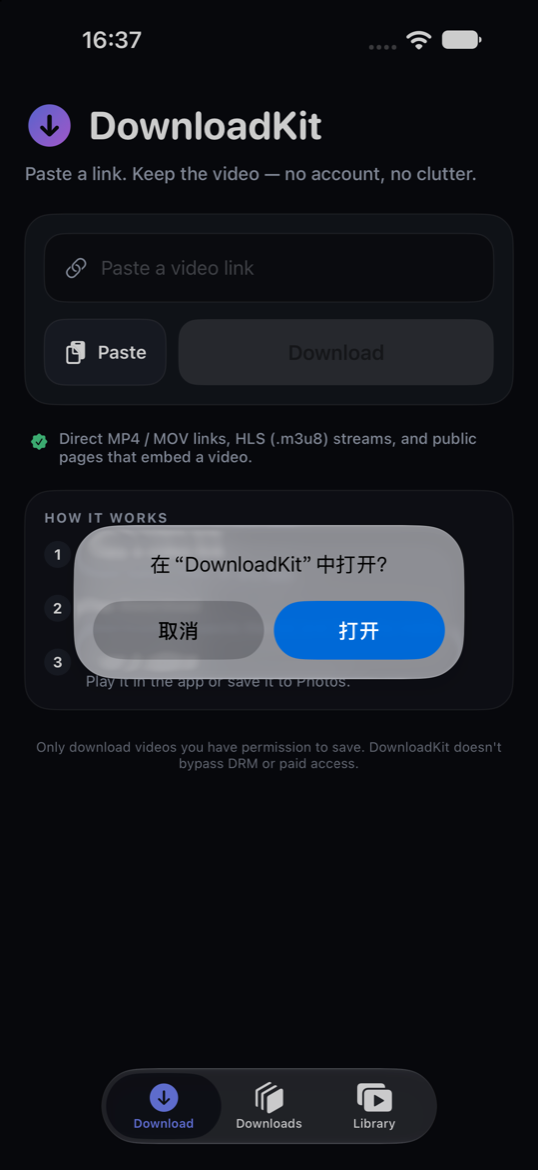
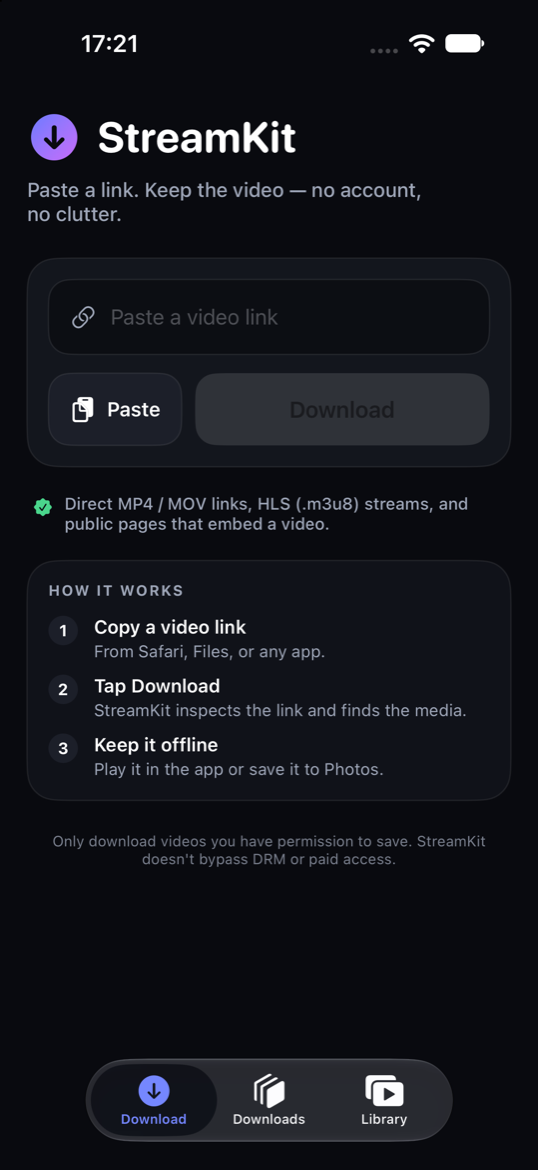
Rename project from DownloadKit to StreamKit
- Targets/schemes: StreamKit, StreamKitShare, StreamKitTests
- Bundle ids: com.streamkit.app / com.streamkit.app.share
- App Group: group.com.streamkit.app, background session com.streamkit.app.background
- URL scheme: streamkit://, on-disk folder Application Support/StreamKit
- Refreshed docs screenshots

diff --git a/ShareExtension/ShareViewController.swift b/ShareExtension/ShareViewController.swift
@@ -62,13 +62,13 @@ final class ShareViewController: UIViewController {
         titleLabel.numberOfLines = 2
         titleLabel.translatesAutoresizingMaskIntoConstraints = false
 
-        detailLabel.text = "DownloadKit will start the download when you open the app."
+        detailLabel.text = "StreamKit will start the download when you open the app."
         detailLabel.font = .systemFont(ofSize: 13.5, weight: .regular)
         detailLabel.textColor = UIColor(white: 0.68, alpha: 1)
         detailLabel.numberOfLines = 3
         detailLabel.translatesAutoresizingMaskIntoConstraints = false
 
-        openButton.setTitle("Open DownloadKit", for: .normal)
+        openButton.setTitle("Open StreamKit", for: .normal)
         openButton.titleLabel?.font = .systemFont(ofSize: 16, weight: .semibold)
         openButton.setTitleColor(.black, for: .normal)
         openButton.backgroundColor = accent
@@ -127,7 +127,7 @@ final class ShareViewController: UIViewController {
         spinner.stopAnimating()
         titleLabel.text = "Link saved"
         let host = URL(string: link)?.host?.replacingOccurrences(of: "www.", with: "") ?? link
-        detailLabel.text = "\(host)\nOpen DownloadKit to start the download."
+        detailLabel.text = "\(host)\nOpen StreamKit to start the download."
         openButton.isHidden = false
         doneButton.isHidden = false
         UIImpactFeedbackGenerator(style: .light).impactOccurred()
@@ -136,18 +136,18 @@ final class ShareViewController: UIViewController {
     private func showFailure() {
         spinner.stopAnimating()
         titleLabel.text = "No link found"
-        detailLabel.text = "Share a video link, or paste it directly in DownloadKit."
+        detailLabel.text = "Share a video link, or paste it directly in StreamKit."
         doneButton.isHidden = false
     }
 
     // MARK: - Actions
 
     @objc private func openApp() {
-        guard let url = URL(string: "downloadkit://") else { return }
+        guard let url = URL(string: "streamkit://") else { return }
         extensionContext?.open(url) { [weak self] opened in
             DispatchQueue.main.async {
                 if !opened {
-                    self?.detailLabel.text = "Link saved. Open DownloadKit from your Home Screen to start the download."
+                    self?.detailLabel.text = "Link saved. Open StreamKit from your Home Screen to start the download."
                     self?.openButton.isHidden = true
                 } else {
                     self?.extensionContext?.completeRequest(returningItems: nil)

diff --git a/Sources/Views/HomeView.swift b/Sources/Views/HomeView.swift
@@ -65,7 +65,7 @@ struct HomeView: View {
                 Image(systemName: "arrow.down.circle.fill")
                     .font(.system(size: 34, weight: .semibold))
                     .foregroundStyle(Theme.brandGradient)
-                Text("DownloadKit")
+                Text("StreamKit")
                     .font(.system(size: 32, weight: .bold, design: .rounded))
                     .foregroundStyle(Theme.textPrimary)
             }
@@ -225,7 +225,7 @@ struct HomeView: View {
 
             VStack(spacing: 10) {
                 step(number: "1", title: "Copy a video link", detail: "From Safari, Files, or any app.")
-                step(number: "2", title: "Tap Download", detail: "DownloadKit inspects the link and finds the media.")
+                step(number: "2", title: "Tap Download", detail: "StreamKit inspects the link and finds the media.")
                 step(number: "3", title: "Keep it offline", detail: "Play it in the app or save it to Photos.")
             }
         }
@@ -242,7 +242,7 @@ struct HomeView: View {
     }
 
     private var legalNote: some View {
-        Text("Only download videos you have permission to save. DownloadKit doesn't bypass DRM or paid access.")
+        Text("Only download videos you have permission to save. StreamKit doesn't bypass DRM or paid access.")
             .font(.system(size: 11))
             .foregroundStyle(Theme.textSecondary.opacity(0.75))
             .multilineTextAlignment(.center)

diff --git a/Tests/LinkResolverTests.swift b/Tests/LinkResolverTests.swift
@@ -1,5 +1,5 @@
 import XCTest
-@testable import DownloadKit
+@testable import StreamKit
 
 final class LinkResolverTests: XCTestCase {
 
@@ -172,7 +172,7 @@ final class HLSPlaylistTests: XCTestCase {
 final class DeepLinkTests: XCTestCase {
 
     func testParsesEncodedLinkFromScheme() {
-        let url = URL(string: "downloadkit://open?url=https%3A%2F%2Fcdn.example.com%2Fclip.mp4")!
+        let url = URL(string: "streamkit://open?url=https%3A%2F%2Fcdn.example.com%2Fclip.mp4")!
         XCTAssertEqual(RootView.incomingLink(from: url), "https://cdn.example.com/clip.mp4")
     }
 
@@ -181,7 +181,7 @@ final class DeepLinkTests: XCTestCase {
     }
 
     func testIgnoresEmptyPayload() {
-        XCTAssertNil(RootView.incomingLink(from: URL(string: "downloadkit://open?url=")!))
-        XCTAssertNil(RootView.incomingLink(from: URL(string: "downloadkit://open")!))
+        XCTAssertNil(RootView.incomingLink(from: URL(string: "streamkit://open?url=")!))
+        XCTAssertNil(RootView.incomingLink(from: URL(string: "streamkit://open")!))
     }
 }

diff --git a/Sources/Views/RootView.swift b/Sources/Views/RootView.swift
@@ -23,9 +23,9 @@ struct RootView: View {
 
     private var activeCount: Int { library.active.count }
 
-    /// `downloadkit://open?url=<percent-encoded link>`
+    /// `streamkit://open?url=<percent-encoded link>`
     static func incomingLink(from url: URL) -> String? {
-        guard url.scheme?.lowercased() == "downloadkit" else { return nil }
+        guard url.scheme?.lowercased() == "streamkit" else { return nil }
         let items = URLComponents(url: url, resolvingAgainstBaseURL: false)?.queryItems ?? []
         guard let value = items.first(where: { $0.name == "url" })?.value,
               !value.trimmingCharacters(in: .whitespacesAndNewlines).isEmpty else { return nil }

diff --git a/Sources/Core/AppPaths.swift b/Sources/Core/AppPaths.swift
@@ -5,7 +5,7 @@ import Foundation
 enum AppPaths {
     static let root: URL = {
         let base = FileManager.default.urls(for: .applicationSupportDirectory, in: .userDomainMask)[0]
-        let root = base.appendingPathComponent("DownloadKit", isDirectory: true)
+        let root = base.appendingPathComponent("StreamKit", isDirectory: true)
         try? FileManager.default.createDirectory(at: root, withIntermediateDirectories: true)
         return root
     }()

diff --git a/Sources/Services/BackgroundSessionBridge.swift b/Sources/Services/BackgroundSessionBridge.swift
@@ -3,7 +3,7 @@ import Foundation
 /// Bridges the background-session completion handler delivered to the app delegate
 /// over to the `URLSession` delegate, which is the only place iOS allows it to be called.
 enum BackgroundSessionBridge {
-    static let identifier = "com.downloadkit.app.background"
+    static let identifier = "com.streamkit.app.background"
 
     private static let lock = NSLock()
     private static var storedHandler: (() -> Void)?

diff --git a/Sources/Views/PlayerScreen.swift b/Sources/Views/PlayerScreen.swift
@@ -36,7 +36,7 @@ struct PlayerScreen: View {
             .padding(.top, 8)
         }
         .statusBarHidden()
-        .alert("DownloadKit", isPresented: Binding(get: { alertMessage != nil },
+        .alert("StreamKit", isPresented: Binding(get: { alertMessage != nil },
                                                   set: { if !$0 { alertMessage = nil } })) {
             Button("OK", role: .cancel) { alertMessage = nil }
         } message: {

diff --git a/Shared/SharedInbox.swift b/Shared/SharedInbox.swift
@@ -2,7 +2,7 @@ import Foundation
 
 /// Hand-off area between the share extension and the app, backed by an App Group.
 enum SharedInbox {
-    static let appGroupIdentifier = "group.com.downloadkit.app"
+    static let appGroupIdentifier = "group.com.streamkit.app"
 
     private static let key = "pendingLinks"
     private static let limit = 20

diff --git a/Sources/App/StreamKitApp.swift b/Sources/App/StreamKitApp.swift
@@ -1,7 +1,7 @@
 import SwiftUI
 
 @main
-struct DownloadKitApp: App {
+struct StreamKitApp: App {
     @UIApplicationDelegateAdaptor(AppDelegate.self) private var appDelegate
 
     @State private var library = LibraryStore.shared

diff --git a/README.md b/README.md
@@ -1,4 +1,4 @@
-# DownloadKit
+# StreamKit
 
 A no-account, open-and-use iOS video downloader. Paste a link (or share one from Safari),
 tap **Download**, keep the video offline. Built with SwiftUI, AVFoundation and URLSession —
@@ -25,33 +25,33 @@ zero third-party dependencies.
   extension drops it into an App Group inbox and the app picks it up on next activation.
 - **Play offline.** Built-in `AVPlayer`, share sheet, and *Save to Photos*.
 - **Library.** Local JSON index in Application Support, thumbnails, size/duration, delete, retry.
-- **Deep link.** `downloadkit://open?url=<percent-encoded link>` lets Shortcuts or a
+- **Deep link.** `streamkit://open?url=<percent-encoded link>` lets Shortcuts or a
   share-sheet shortcut hand a URL over without retyping.
 
 ## Requirements
 
 - Xcode 26 or newer, iOS 17+ deployment target
 - [XcodeGen](https://github.com/yonaskolb/XcodeGen) (`brew install xcodegen`) — the project file is generated
-- An App Group named `group.com.downloadkit.app` registered for both bundle ids when you build for a device
+- An App Group named `group.com.streamkit.app` registered for both bundle ids when you build for a device
 
 ## Run it
 
 ```bash
 xcodegen generate
-open DownloadKit.xcodeproj
+open StreamKit.xcodeproj
 ```
 
 Command line:
 
 ```bash
-xcodebuild -project DownloadKit.xcodeproj -scheme DownloadKit \
+xcodebuild -project StreamKit.xcodeproj -scheme StreamKit \
   -sdk iphonesimulator -destination 'platform=iOS Simulator,name=iPhone 17' build
 
-xcodebuild test -project DownloadKit.xcodeproj -scheme DownloadKit \
+xcodebuild test -project StreamKit.xcodeproj -scheme StreamKit \
   -sdk iphonesimulator -destination 'platform=iOS Simulator,name=iPhone 17'
 ```
 
-The project has two app targets: `DownloadKit` (the app) and `DownloadKitShare` (share
+The project has two app targets: `StreamKit` (the app) and `StreamKitShare` (share
 extension, embedded in `PlugIns/`).
 
 ## How a link is resolved
@@ -65,7 +65,7 @@ input ──► normalize (https://, validation)
           └─ text/html ──► scrape candidates ──► probe ──► media
 ```
 
-Downloads land in `Application Support/DownloadKit/Media`, thumbnails next to them in
+Downloads land in `Application Support/StreamKit/Media`, thumbnails next to them in
 `…/Thumbnails`, pending resume data as `…/Media/<record-id>.resume`, and the index in
 `…/library.json`.
 
@@ -104,17 +104,17 @@ project.yml   XcodeGen spec (Info.plists + entitlements are generated from it)
 ```bash
 # Resolve + download a list of links, logging outcomes to the unified log
 SIMCTL_CHILD_SMOKE_URLS="https://example.com/a.mp4" \
-  xcrun simctl launch --console booted com.downloadkit.app --smoke-test
+  xcrun simctl launch --console booted com.streamkit.app --smoke-test
 
 # Same, but pause after 3 s and resume 1.5 s later (exercises resume data)
 SIMCTL_CHILD_SMOKE_PAUSE=1 SIMCTL_CHILD_SMOKE_URLS="…" \
-  xcrun simctl launch booted com.downloadkit.app --smoke-test
+  xcrun simctl launch booted com.streamkit.app --smoke-test
 
 # Simulate the share extension writing into the App Group
-SIMCTL_CHILD_INBOX_PUSH="https://example.com/page" xcrun simctl launch booted com.downloadkit.app
+SIMCTL_CHILD_INBOX_PUSH="https://example.com/page" xcrun simctl launch booted com.streamkit.app
 
 # Pre-fill the field and open the preview sheet / start on a tab
-SIMCTL_CHILD_PREVIEW_URL="…" SIMCTL_CHILD_SHOW_TAB=library xcrun simctl launch booted com.downloadkit.app
+SIMCTL_CHILD_PREVIEW_URL="…" SIMCTL_CHILD_SHOW_TAB=library xcrun simctl launch booted com.streamkit.app
 ```
 
 ## Scope and limitations
@@ -128,12 +128,12 @@ SIMCTL_CHILD_PREVIEW_URL="…" SIMCTL_CHILD_SHOW_TAB=library xcrun simctl launch
   falls back gracefully; verify remuxing on a physical device.
 - Subtitle renditions are ignored; audio is muxed from the default rendition only.
 - The share extension can't launch the app itself in most iOS versions; it saves the link and
-  shows "Open DownloadKit", which drains the inbox on activation.
+  shows "Open StreamKit", which drains the inbox on activation.
 
 ## Before shipping to the App Store
 
-- Replace `com.downloadkit.app` / `com.downloadkit.app.share` with your own ids, set a
-  development team, and register `group.com.downloadkit.app` in the developer portal for both.
+- Replace `com.streamkit.app` / `com.streamkit.app.share` with your own ids, set a
+  development team, and register `group.com.streamkit.app` in the developer portal for both.
 - App icon lives in `Sources/Resources/Assets.xcassets/AppIcon.appiconset` — regenerate with your brand.
 - `NSAllowsArbitraryLoads` is enabled because users can supply `http://` media. Explain this in
   App Review notes; alternatively restrict to `NSAllowsArbitraryLoadsForMedia`.
